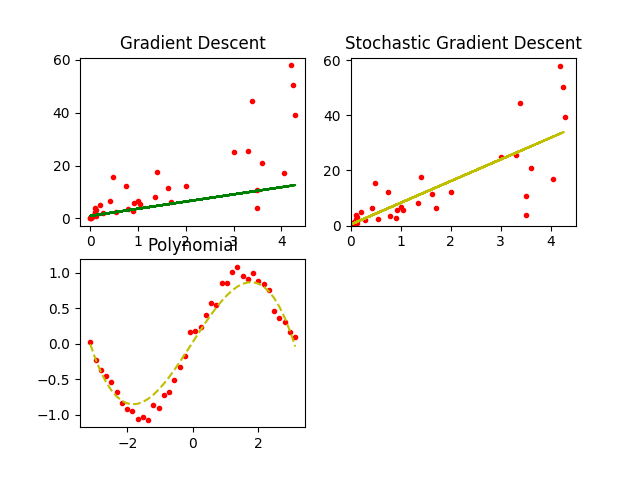
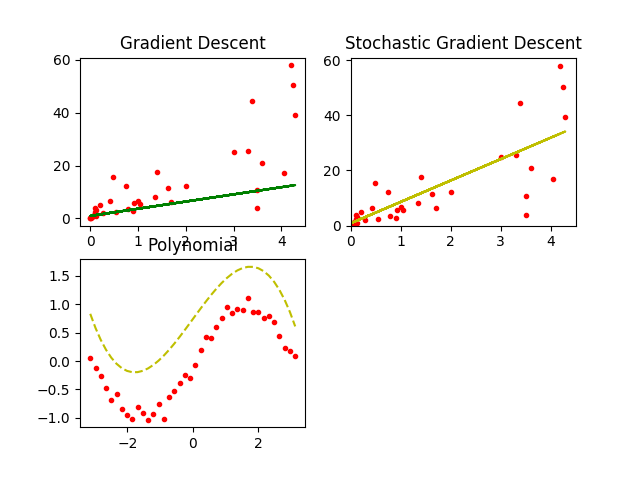
L2 regularization

diff --git a/src/__init__.py b/src/__init__.py
@@ -1,4 +1,5 @@
 from toolz import curry
+from math import sqrt
 import numpy as np
 from numpy import sin, pi
 import matplotlib.pyplot as plt
@@ -58,7 +59,7 @@ class Point4:
         return 'Point4(%f,%f,%f,%f)' % (self.x, self.y, self.z, self.q)
 
     def l2(self):
-        return sqrt(self.x**2 + self.y**2 + self.z**2 + self.q**2 )
+        return sqrt(self.x**2 + self.y**2 + self.z**2 + self.q**2)
 
 
 def gradient_descent_step(learning_rate, A_point, df):
@@ -85,9 +86,9 @@ def least_squere_error_polynomial(point, datapoints):
     return least_squere_error_method(Y_hat, point, datapoints)
 
 
-def least_squere_error_with_L2(point, datapoints):
+def least_squere_error_polynomial_with_L2(point, datapoints):
     bias = point.l2()
-    return least_squere_error(point, datapoints) + bias
+    return least_squere_error_polynomial(point, datapoints) + bias
 
 
 def gradient_descent(point, learning_rate, error_treshold, max_iterations, datapoints):
@@ -130,7 +131,6 @@ def stochastic_gradient_descent(point, learning_rate, error_treshold, max_iterat
     for i in range(max_iterations):
         shuffle(datapoints)
         for p in datapoints:
-            old = point
             point = gradient_descent_step(
                 learning_rate, point, stochastic_df(p))
 
@@ -158,13 +158,25 @@ def gradient_of_least_squers_polynomial(datapoints, betas):
     )
 
 
+@curry
+def gradient_of_least_squers_polynomial_with_l2(datapoints, betas):
+    l2 = betas.l2()
+    p = gradient_of_least_squers_polynomial(datapoints, betas)
+    return Point4(
+            x=p[0] + betas[0]/l2,
+            y=p[1] + betas[1]/l2,
+            z=p[2] + betas[2]/l2,
+            q=p[3] + betas[3]/l2
+            )
+
+
 def gradient_descent_polynomial(point, learning_rate, error_treshold, max_iterations, datapoints):
     E = 0
     for i in range(max_iterations):
         point = gradient_descent_step(
-            learning_rate, point, gradient_of_least_squers_polynomial(datapoints))
+            learning_rate, point, gradient_of_least_squers_polynomial_with_l2(datapoints))
 
-        e = least_squere_error_polynomial(point, datapoints)
+        e = least_squere_error_polynomial_with_L2(point, datapoints)
         if abs(E - e) > error_treshold:
             E = e
         else:
@@ -277,10 +289,10 @@ sin_y += np.random.normal(scale=0.1, size=samples)
 poly_dataset = [(x[0], x[1]) for x in zip(sin_x, sin_y)]
 poly_datapoints = [Point(x[0], x[1]) for x in poly_dataset]
 
-P4 = gradient_descent_polynomial(point=Point4(0, 0, 0, 0),
-                                     learning_rate=0.01,
+P4 = gradient_descent_polynomial(point=Point4(1, 1, 1, 1),
+                                     learning_rate=0.0001,
                                      error_treshold=0.0001,
-                                     max_iterations=2000,
+                                     max_iterations=1000,
                                      datapoints=poly_datapoints)
 
 print("B1B2B3 gradient descent polynomial =", P4)
